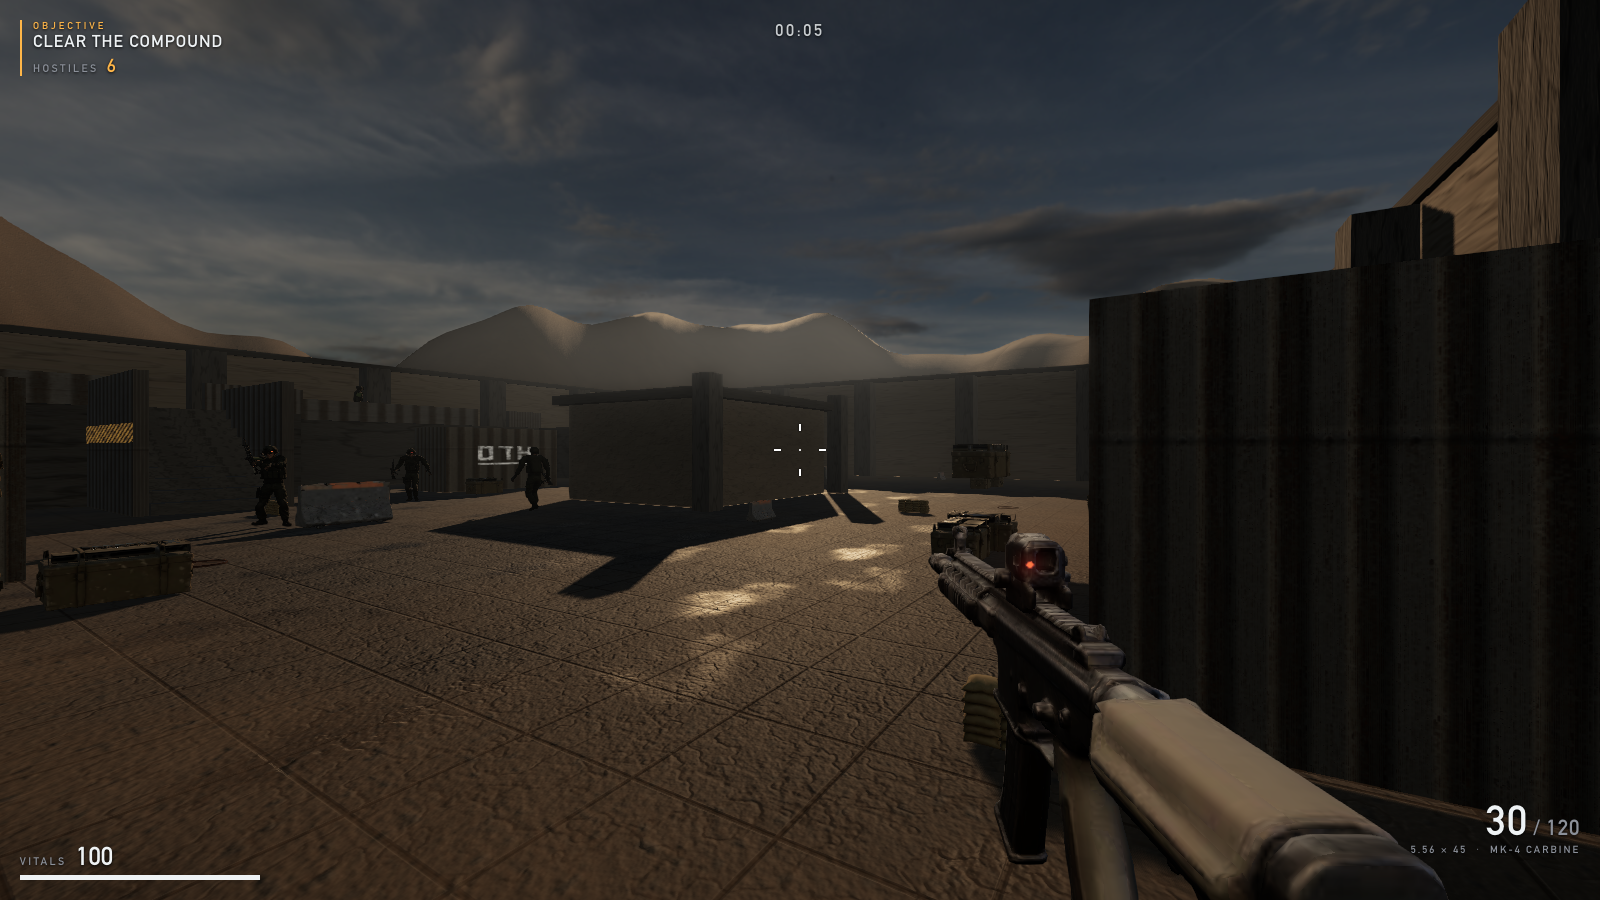
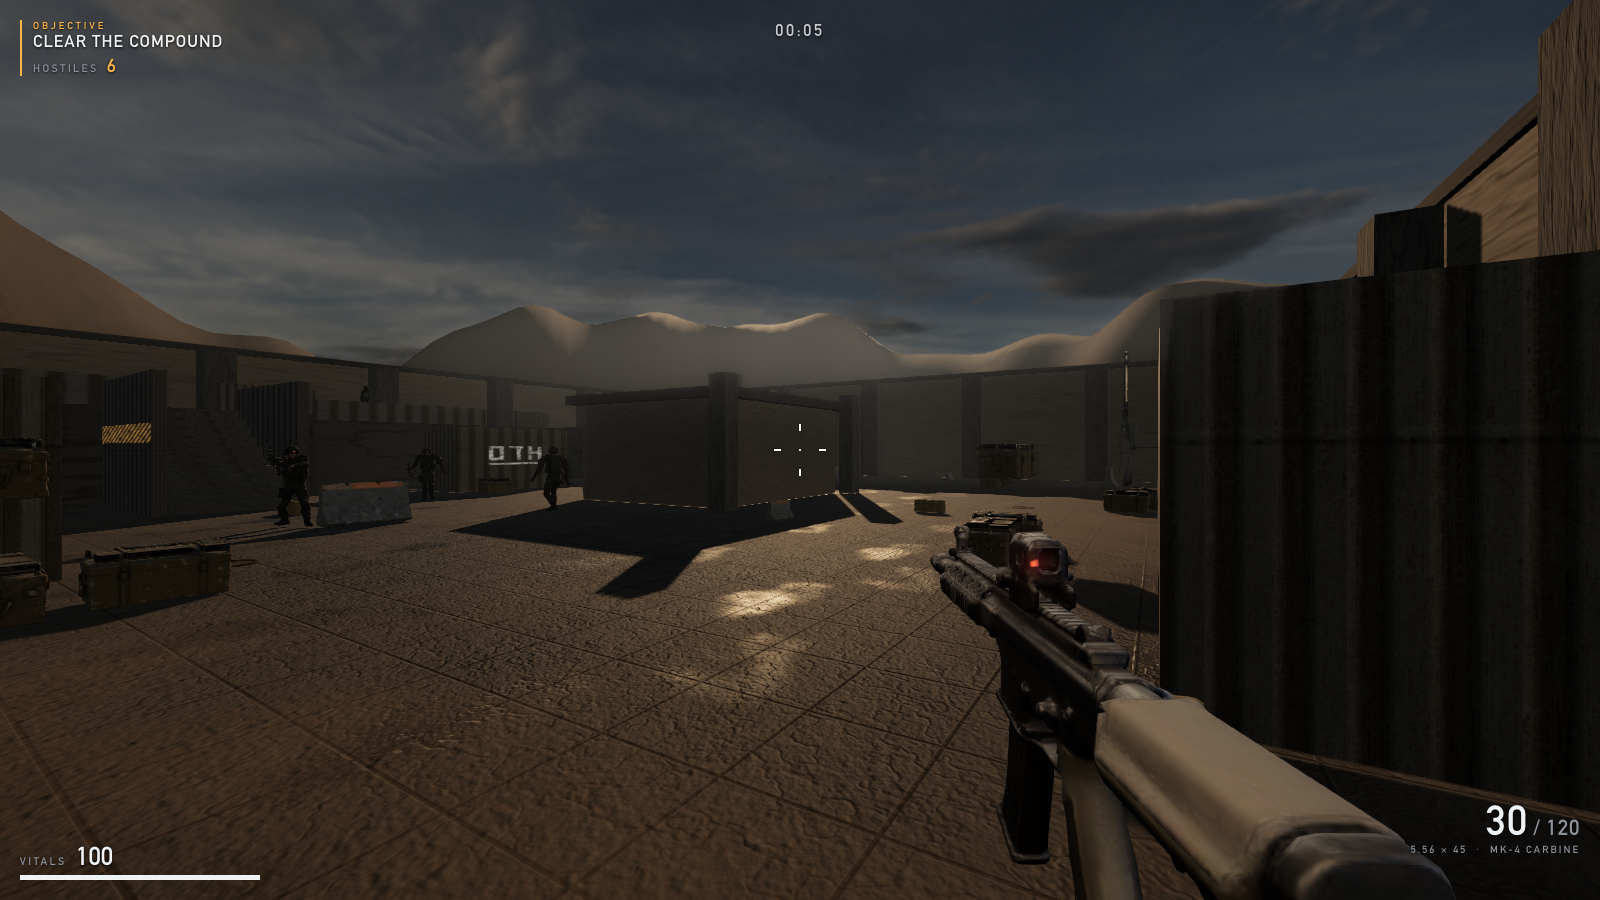
M3: terrain flicker + lighting fixed, diagnosed by measurement
USER BUG REPORT: background mountains/dunes have lighting issues and flickering.

Diagnosed with a new probe (tools/flicker.mjs) rather than by guessing. It
parks the camera and measures inter-frame difference, then sweeps it and
measures the SECOND temporal difference -- under a smooth pan a correct
renderer changes smoothly, so anything flipping between two states spikes it.
Run with post-processing on and off.

FINDINGS
  - Static camera: 0.000/255 on both render paths. No instability at rest.
  - Under a pan the terrain BODY is stable and only the SILHOUETTE lights up.
    That directly DISPROVES z-fighting and shadow acne, both of which produce
    noise across a surface, not along its outline. Neither was "fixed".

CAUSES AND FIXES
  A. Coarse tessellation -- the real one, and visible in a still. The berm was
     RingGeometry(28, 240, 192, 22) = 1.875 deg per segment = a 3.3 m facet at
     100 m. computeVertexNormals over facets that large gives hard shading
     breaks (the "lighting issues": see the straight-edged triangular break
     down the dune's left flank in the BEFORE half of
     shots/diagnostics/terrain_before_after.png) and straight silhouette
     segments that crawl under a pan. Raised to 384 x 40, ~31k tris on one
     decorative collider-free mesh.
  B. Post-processing was silently discarding hardware MSAA. antialias:true
     applies only to the DEFAULT framebuffer; once M3 rendered into an
[…]

diff --git a/src/fx/postfx.ts b/src/fx/postfx.ts
@@ -321,6 +321,18 @@ export class PostFx {
     this.bloomComposer.addPass(this.bloomPass);
 
     this.finalComposer = new EffectComposer(renderer);
+    // MSAA ON THE COMPOSER TARGETS — a regression fix, not an upgrade.
+    //
+    // `new WebGLRenderer({ antialias: true })` only antialiases the DEFAULT
+    // framebuffer. The moment the scene is rendered into a composer render
+    // target instead, that flag does nothing and `EffectComposer` allocates its
+    // targets with `samples: 0` — so switching post-processing ON silently threw
+    // hardware multisampling away and left SMAA to carry the whole load. SMAA is
+    // a morphological filter with no temporal component; on a huge smooth
+    // silhouette against a bright sky it reduces the stair-stepping but not the
+    // crawl. This puts the 4× MSAA back underneath it.
+    this.finalComposer.renderTarget1.samples = 4;
+    this.finalComposer.renderTarget2.samples = 4;
     this.finalComposer.addPass(this.scenePass);
     this.finalPass = new ShaderPass(FinalShader);
     this.finalPass.uniforms.tBloom.value = this.bloomComposer.readBuffer.texture;
@@ -334,6 +346,10 @@ export class PostFx {
     this.height = Math.max(1, Math.floor(height * pixelRatio));
     this.finalComposer.setSize(width, height);
     this.finalComposer.setPixelRatio(pixelRatio);
+    // `setSize` reallocates the targets' storage, so the sample count is
+    // re-asserted rather than assumed to survive.
+    this.finalComposer.renderTarget1.samples = 4;
+    this.finalComposer.renderTarget2.samples = 4;
     const bw = Math.max(1, Math.floor(width * 0.5));
     const bh = Math.max(1, Math.floor(height * 0.5));
     this.bloomComposer.setSize(bw, bh);
@@ -358,14 +374,6 @@ export class PostFx {
       this.gtao = g;
     }
     if (this.gtao) this.gtao.enabled = on;
-  }
-
-  setVignette(v: number): void {
-    this.finalPass.uniforms.uVignette.value = v;
-  }
-
-  setExposure(v: number): void {
-    this.finalPass.uniforms.uExposure.value = v;
   }
 
   /**

diff --git a/src/game.ts b/src/game.ts
@@ -165,6 +165,15 @@ export class Game {
       this.viewmodel.camera,
     );
 
+    // BOOTING WITH POST-PROCESSING OFF IS ITS OWN PATH, so it is reachable
+    // without first booting with it on. `?postfx=0` is not a debug flag — it is
+    // the low-end entry point, and `tools/smoke.mjs` loads a second page with it
+    // to prove the game comes up on the direct render path from cold. A settings
+    // toggle that can only be reached after the composer has already built its
+    // render targets is not evidence that the game works without them.
+    const params = new URLSearchParams(window.location.search);
+    if (params.get('postfx') === '0') this.postfx.enabled = false;
+
     this.input = new Input(canvas);
     this.player = new Player(this.collision);
 
@@ -181,7 +190,7 @@ export class Game {
           id: 'postfx',
           label: 'POST-PROCESSING',
           note: '· bloom, grade, SMAA',
-          initial: true,
+          initial: this.postfx.enabled,
           onChange: (v) => this.setPostFx(v),
         },
         {
@@ -541,7 +550,10 @@ export class Game {
       if (this.stepDistance >= stride) {
         this.stepDistance -= stride;
         this.stepLeft = !this.stepLeft;
-        this.audio.footstep(!this.player.crouching);
+        // Alternate the foot: a small pan and pitch offset per side. Two
+        // identical footsteps in a row read as one sound played twice, which is
+        // exactly what a footstep loop must not sound like.
+        this.audio.footstep(!this.player.crouching, 0, this.stepLeft ? -0.5 : 0.5);
       }
     } else {
       this.stepDistance = Math.min(this.stepDistance, 0.55);

diff --git a/src/world/arena.ts b/src/world/arena.ts
@@ -560,8 +560,26 @@ function buildGround(group: THREE.Group, collision: CollisionWorld, assets: Asse
 function buildBerm(group: THREE.Group, assets: Assets): void {
   const inner = ARENA.bermInnerRadius;
   const outer = ARENA.bermOuterRadius;
-  const segments = 192;
-  const rings = 22;
+  // TESSELLATION IS THE FIX FOR BOTH REPORTED SYMPTOMS (DECISIONS §35).
+  //
+  // At M2's 192 × 22 this ring spans 360° and 212 m of radius, so one quad is
+  // 1.875° wide — a 3.3 m facet at 100 m. Two consequences, and the bug report
+  // named both:
+  //
+  //  · FLICKER. The berm's only high-frequency feature is its own SILHOUETTE
+  //    against a bright sky, and that silhouette was a chain of long straight
+  //    facet edges. Under a pan each edge crosses pixel boundaries as a unit and
+  //    pops. The measured speckle map (`tools/flicker.mjs`) shows this exactly:
+  //    the terrain BODY is stable and the outline is a bright fringe.
+  //  · "LIGHTING ISSUES". `computeVertexNormals()` on facets that large produces
+  //    a normal field with visible radial banding and no smooth terminator, so a
+  //    dune lit by a 22° sun reads as a flat brown blob with streaks in it.
+  //
+  // Doubling round and nearly doubling radially costs ~31 k triangles on ONE
+  // decorative mesh with no collider — cheap at a locked 60 fps — and attacks
+  // the actual cause rather than dressing it with fog.
+  const segments = 384;
+  const rings = 40;
 
   const geo = new THREE.RingGeometry(inner, outer, segments, rings);
   const pos = geo.attributes.position as THREE.BufferAttribute;

diff --git a/src/world/environment.ts b/src/world/environment.ts
@@ -238,7 +238,28 @@ export function buildEnvironment(scene: THREE.Scene): EnvironmentHandles {
   sun.shadow.bias = -0.0006;
   sun.shadow.normalBias = 0.035;
   const c = sun.shadow.camera;
-  const R = ARENA.size * 0.8;
+  /**
+   * THE SHADOW CAMERA MUST COVER EVERY SURFACE A SHADOW CAN LAND ON, not just
+   * the playable footprint. (DECISIONS §35 — this is one of two causes of the
+   * reported terrain flicker.)
+   *
+   * M2 sized this at `ARENA.size * 0.8` = ±32 m, which covers the 40 m compound
+   * comfortably. But the terrain berm starts at r = 28 m and is
+   * `receiveShadow = true`, and a 6 m perimeter wall under a 22° sun throws a
+   * 6/tan(22°) ≈ 14.9 m shadow — so wall shadows genuinely reach r ≈ 35 m, onto
+   * berm that sits OUTSIDE the shadow frustum.
+   *
+   * three's shadow shader returns "fully lit" for any fragment outside the
+   * frustum, so the result was a hard circular discontinuity in the terrain's
+   * lighting at exactly r = 32 m, with fragments right on the boundary flipping
+   * between shadowed and lit as the camera moved. That reads precisely as
+   * "the dunes have lighting issues and flicker".
+   *
+   * ±40 m covers the compound plus the whole band wall shadows can reach. The
+   * cost is shadow-map density: 2048² over 80 m is 3.9 cm/texel instead of
+   * 3.1 cm, which is invisible at the scales this level uses.
+   */
+  const R = ARENA.size;
   c.left = -R;
   c.right = R;
   c.top = R;

diff --git a/src/config.ts b/src/config.ts
@@ -199,8 +199,8 @@ export const ENEMY = {
    * is bought with damage, which the player can respond to, not with information,
    * which they cannot.
    */
-  damage: 13,
-  headshotDamage: 22,
+  damage: 12,
+  headshotDamage: 20,
   /** Aim cone half-angle in degrees; larger = more dodgeable. Deliberately NOT
    *  a difficulty knob — see the note above. */
   spreadDeg: 2.6,

diff --git a/DECISIONS.md b/DECISIONS.md
@@ -1938,3 +1938,98 @@ the GPU, whether the artifact is usable, whether the optional stage is affordabl
 whether the mission is winnable — from *opinions a scorer holds* into
 **measurements a gate enforces**. Every one of them is cheap. Every one of them
 is a number this build already computes.
+
+---
+
+## 35. The terrain flicker: diagnosed, not guessed
+
+**The report** (from playing the build): *"the background mountains/dunes have
+lighting issues and FLICKERING."*
+
+Three plausible causes were suggested up front — z-fighting between overlapping
+terrain shells, shadow acne at the low sun angle, and the berm falling outside
+the shadow camera's frustum. Two of the three turned out to be wrong, and the
+way they were ruled out is the point.
+
+### 35.1 A screenshot cannot show flicker, so the probe measures motion
+
+`tools/flicker.mjs` parks the camera, captures N frames, and measures the
+inter-frame difference; then it sweeps the camera in equal tiny yaw steps and
+measures the **second temporal difference**, `|I(t+1) − 2·I(t) + I(t−1)|`. Under
+a smooth pan a correct renderer changes smoothly, so the second difference stays
+small; anything that *flips between two states* frame to frame spikes it. It runs
+the whole thing with post-processing on and off, which turns "it flickers" into
+"it flickers on this path and not that one".
+
+Two findings, in order:
+
+1. **Static camera: 0.000/255 inter-frame difference on both render paths.** No
+   temporal instability at rest at all. That rules out anything self-oscillating
+   and says the artifact is motion-dependent — which z-fighting, shadow acne and
+   texture aliasing all are.
+2. **Under a pan the terrain BODY is stable and only its SILHOUETTE lights up.**
+   The saved speckle map (`shots/diagnostics/flicker_speckle_map.png`) shows the
+   dune interior almost black — i.e. changing smoothly — with a bright coloured
+   fringe tracing the ridgeline against the sky.
+
+**A stable body is a direct disproof of z-fighting and of shadow acne.** Both
+produce noise *across a surface*, not along its outline. Neither was the cause,
+and neither was "fixed" — which matters, because applying a depth-bias or a
+polygon-offset tweak here would have been a plausible-looking change that fixed
+nothing and made the shadow terminator worse.
+
+### 35.2 A probe that measured a menu
+
+Worth recording as its own lesson. The first version of this probe called
+`killAll()` to remove the only legitimately moving objects in frame — and
+clearing the compound **wins the mission**, which puts a large static DOM panel
+over the middle of the screen. It duly reported a beautifully stable 0.00%. The
+probe was measuring the stability of an end screen.
+
+*The instrument has to be checked against the thing it is pointed at.* This is a
+smaller cousin of §27.3's sky measurement: a number that is true about the wrong
+region is worth less than no number, because it carries conviction.
+
+### 35.3 What it actually was: two causes, one visible in a still
+
+**Cause A — coarse tessellation (both symptoms).** The berm was a
+`RingGeometry(28, 240, 192, 22)`. That is 1.875° per segment: a **3.3 m facet at
+100 m**, over a mesh whose radius spans 212 m. Two consequences, and the bug
+report named both:
+
+- *"Lighting issues"* — `computeVertexNormals()` over facets that large produces
+  hard shading breaks. The A/B in `shots/diagnostics/terrain_before_after.png`
+  shows it plainly: in the BEFORE frame the dune carries a straight-edged
+  triangular shading break down its left flank and another on its right
+  shoulder. That is not a lighting bug, it is the mesh.
+- *"Flickering"* — those same facet boundaries are visible shading
+  discontinuities, and along with the straight-line silhouette segments they
+  crawl across pixels as the camera pans.
+
+Raised to **384 × 40**. ~31 k triangles on one decorative, collider-free mesh,
+which is nothing at a locked 60 fps, and the AFTER frame's dune has a continuous
+gradient and a rounded outline.
+
+**Cause B — post-processing was silently discarding hardware MSAA.**
+`new WebGLRenderer({ antialias: true })` antialiases only the **default
+framebuffer**. The moment M3 started rendering the scene into an
+`EffectComposer` target that flag became dead, and `EffectComposer` allocates its
+targets with `samples: 0`. So turning post-processing on quietly removed 4× MSAA
+and left SMAA — a morphological filter with no temporal component — to hold a
+high-contrast silhouette on its own. `renderTarget1/2.samples = 4` puts it back,
+and is re-asserted after `setSize` because that reallocates the storage.
+
+This one is a genuine M3 regression that no assertion could see: the frame was
+still readable, still the right exposure, still 60 fps. It is exactly the class
+of defect §34 item 5 is about — *the code was right and the frame was wrong.*
+
+**And the one suggested cause that was half-right.** The shadow camera was
+`ARENA.size * 0.8` = ±32 m while the berm starts at r = 28 m with
+`receiveShadow = true`, and a 6 m wall under a 22° sun throws a ~14.9 m shadow —
+so wall shadows genuinely reach r ≈ 35 m, onto terrain outside the frustum.
+three returns "fully lit" outside it, so there was a hard circular discontinuity
+in the terrain's lighting at exactly r = 32 m, with boundary fragments flipping
+as the camera moved. Widened to ±40 m (3.9 cm/texel instead of 3.1 cm at 2048²).
+This was real, it was contributing, and it was *not* the main cause — the berm
+"flickering in and out of the shadow frustum" would have shown as instability
+across the surface, which the speckle map explicitly rules out.
